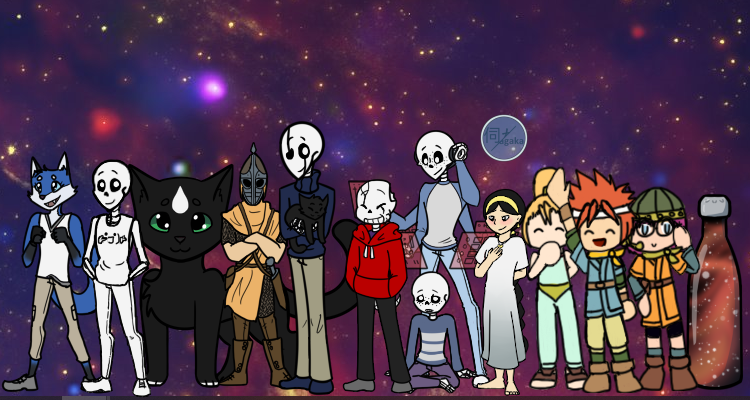
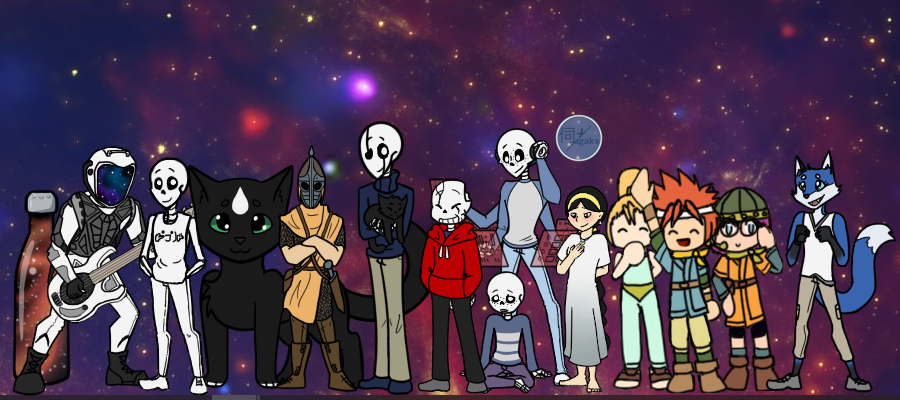
update splash image

diff --git a/index.html b/index.html
@@ -26,7 +26,7 @@ Maybe if I make a new commit, it'll go away.-->
         <!--<h1>Zi's Ukagaka Hub</h1>-->
         <h1>Welcome to Zi's Ukagaka Hub!</h1>
         <p>Hello, I'm Zichqec, and I make entirely too much Ukagaka content! You can use the links above to find ghosts, balloons, tutorials, functions, and more! If you're here to report a bug/give feedback/ask for advice on something I've made, my social media links are at the bottom of this page. Don't be shy about messaging me, I love to talk about this stuff!</p>
-        <img src="img/AllTogether.png" alt="All my current ghosts and ghosts in progress!" width="750" height="400" class="center">
+        <img src="img/AllTogether.png" alt="All my current ghosts and ghosts in progress!" width="900" height="400" class="center">
         <br>
     </article>
     <article>
